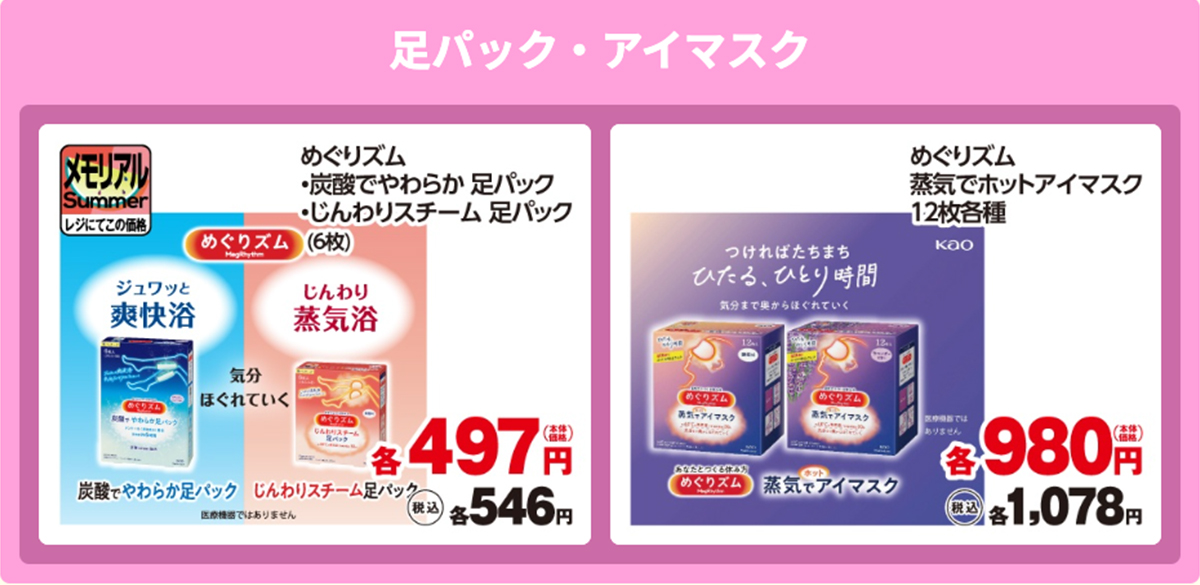
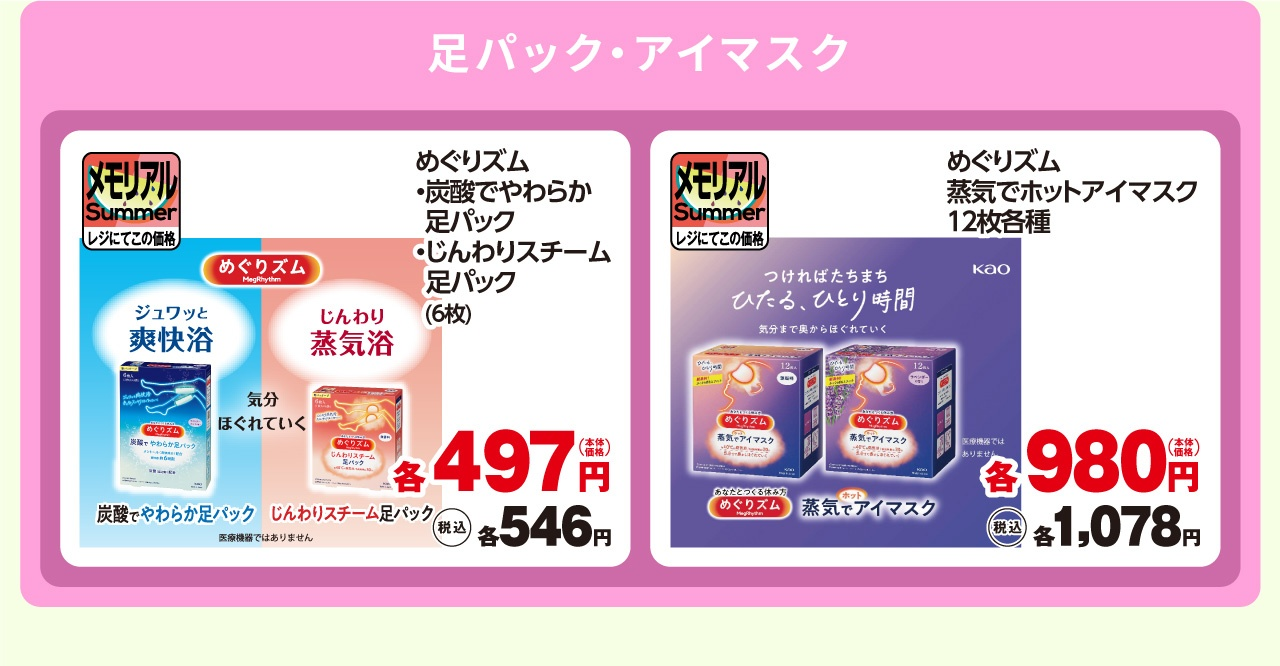
230706~のチラシのベースを作成

diff --git a/assets/css/style.css b/assets/css/style.css
@@ -1,2 +1,2 @@
 @import url(https://fonts.googleapis.com/css2?family=Noto+Sans+JP:wght@400;700;900&display=swap);
[2 lines of base64/hex data omitted]

diff --git a/assets/css/src/common/_generated-icon-vars.scss b/assets/css/src/common/_generated-icon-vars.scss
@@ -46,7 +46,7 @@ $icons: (
 		font-family: "icon";
 		font-style: normal;
 		font-weight: normal;
[2 lines of base64/hex data omitted]
 	}
 
 	.Icon {

diff --git a/assets/css/src/pages/home.scss b/assets/css/src/pages/home.scss
@@ -80,11 +80,11 @@ $bg_19: #EF7A00;
     max-width: 640px;
     margin: 0 auto;
     background: $bg-color;
-    padding: 0 10px 10px;
+    // padding: 0 10px 10px;
 }
 
 section {
-    max-width: 620px;
+    max-width: 640px;
     margin: 0 auto;
     border-radius: 5px;
 }
@@ -427,100 +427,8 @@ button{
         display: block;
     }
 }
-
-.Caution {
-    margin: -10px 0 0;
-    border-radius: 0 0 5px 5px;
-
-    &__Contents {
-        text-align: center;
-        padding: 40px 0;
-
-        p {
-            font-size: 22px;
-            color: $text-color-red;
-            font-weight: 700;
-            margin: 0;
-        }
-
-        span {
-            font-size: 16px;
-            color: $text-color-red;
-            font-weight: 700;
-            margin-top: 10px;
-            display: block;
-        }
-
-        div {
-            margin-top: 30px;
-        }
-
-        &__MemorialSummer {
-            display: flex;
-            justify-content: center;
-            gap: 10px;
-
-            img {
-                width: 50px;
-                height: 50px;
-            }
-
-            span {
-                margin: 0;
-                position: relative;
-                padding-left: 20px;
-
-                &::before {
-                    position: absolute;
-                    content: '←';
-                    left: 0;
-                }
-            }
-        }
-
-        &__Point {
-
-            img {
-                width: 200px;
-            }
-
-            p {
-                font-size: 16px;
-                color: #000;
-
-                strong {
-                    display: inline;
-                    color: $text-color-red;
-                    font-size: 20px;
-                }
-            }
-        }
-
-        ul {
-            text-align: left;
-            padding-left: 0px;
-            margin-top: 40px;
-
-            li {
-                font-size: 14px;
-                position: relative;
-                padding-left: 15px;
-                margin-top: 5px;
-                font-weight: 700;
-
-                &::before {
-                    position: absolute;
-                    content: '※';
-                    left: 0;
-                }
-
-                &.-Red {
-                    color: $text-color-red;
-                }
-            }
-        }
-    }
-
+.CautionImage {
+    max-width: 620px;
 }
 
 // --------------------------------------------

diff --git a/index.html b/index.html
@@ -316,10 +316,7 @@
 
 <section class="Products is-show" data-filterProducts="productsCategory13-all">
 	<img
-		src="./img/k/13-1.jpg"
-		alt="">
-	<img
-		src="./img/k/13-2.jpg"
+		src="./img/k/13.jpg"
 		alt="">
 </section>
 
@@ -359,7 +356,7 @@
 		alt="">
 </section>
 
-<section class="Products is-show">
+<section class="Products CautionImage is-show">
 	<img
 		src="./img/txt.jpg"
 		alt="">
